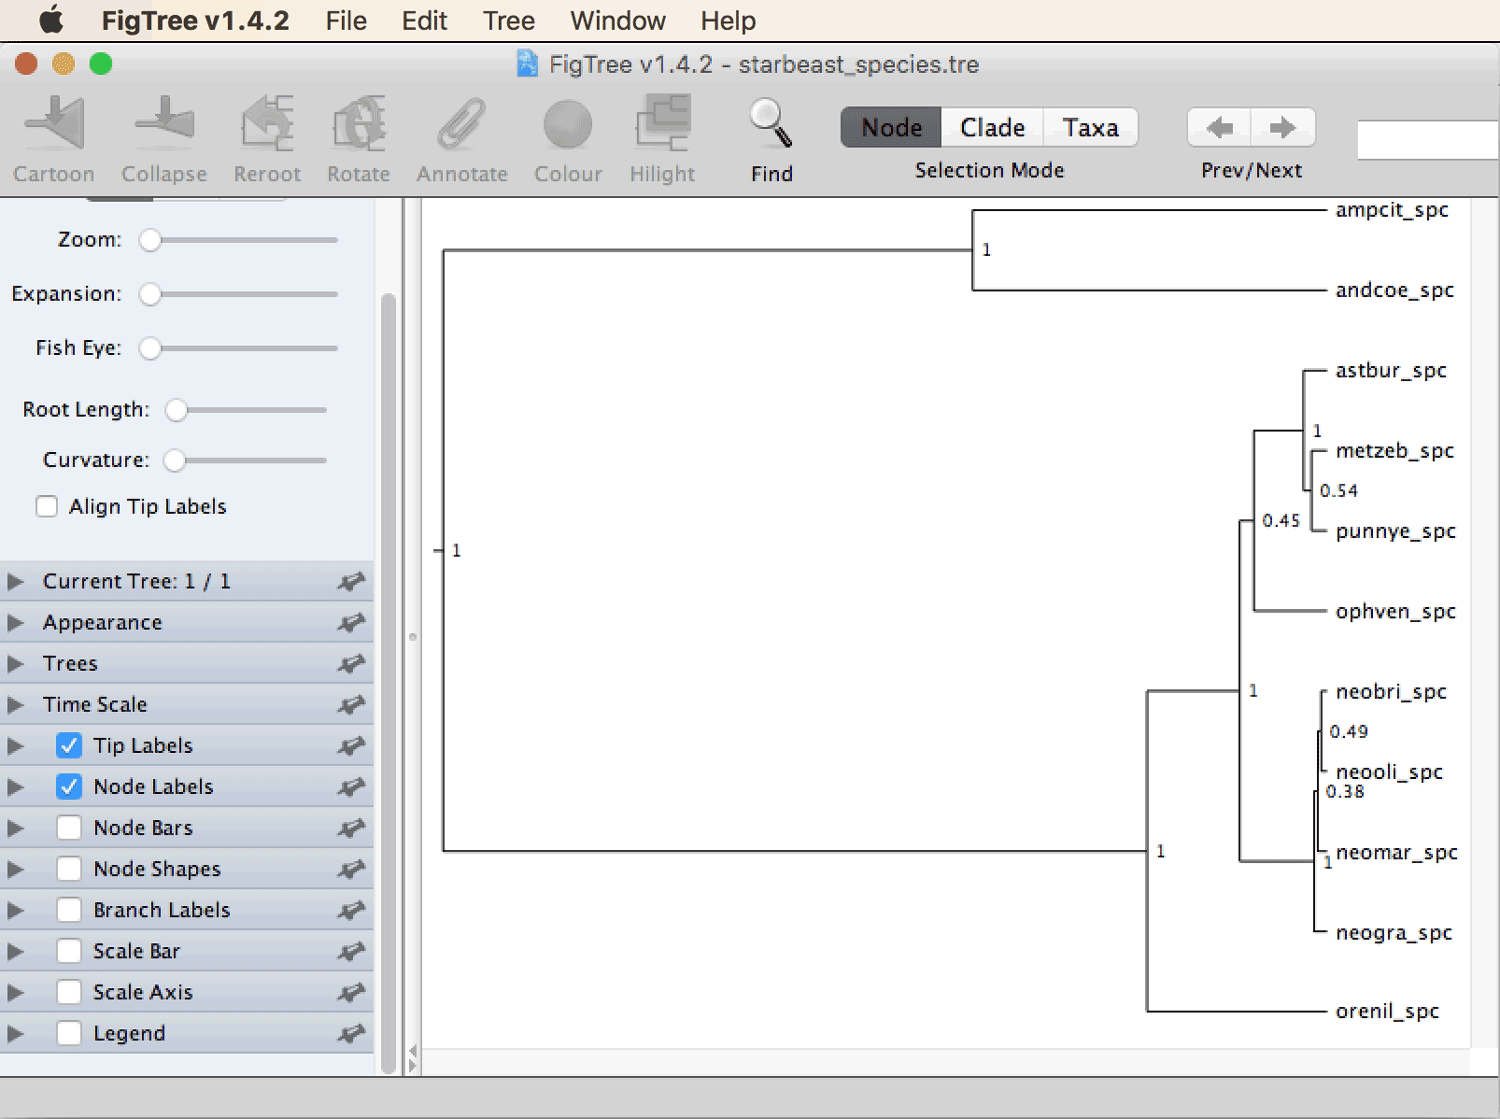
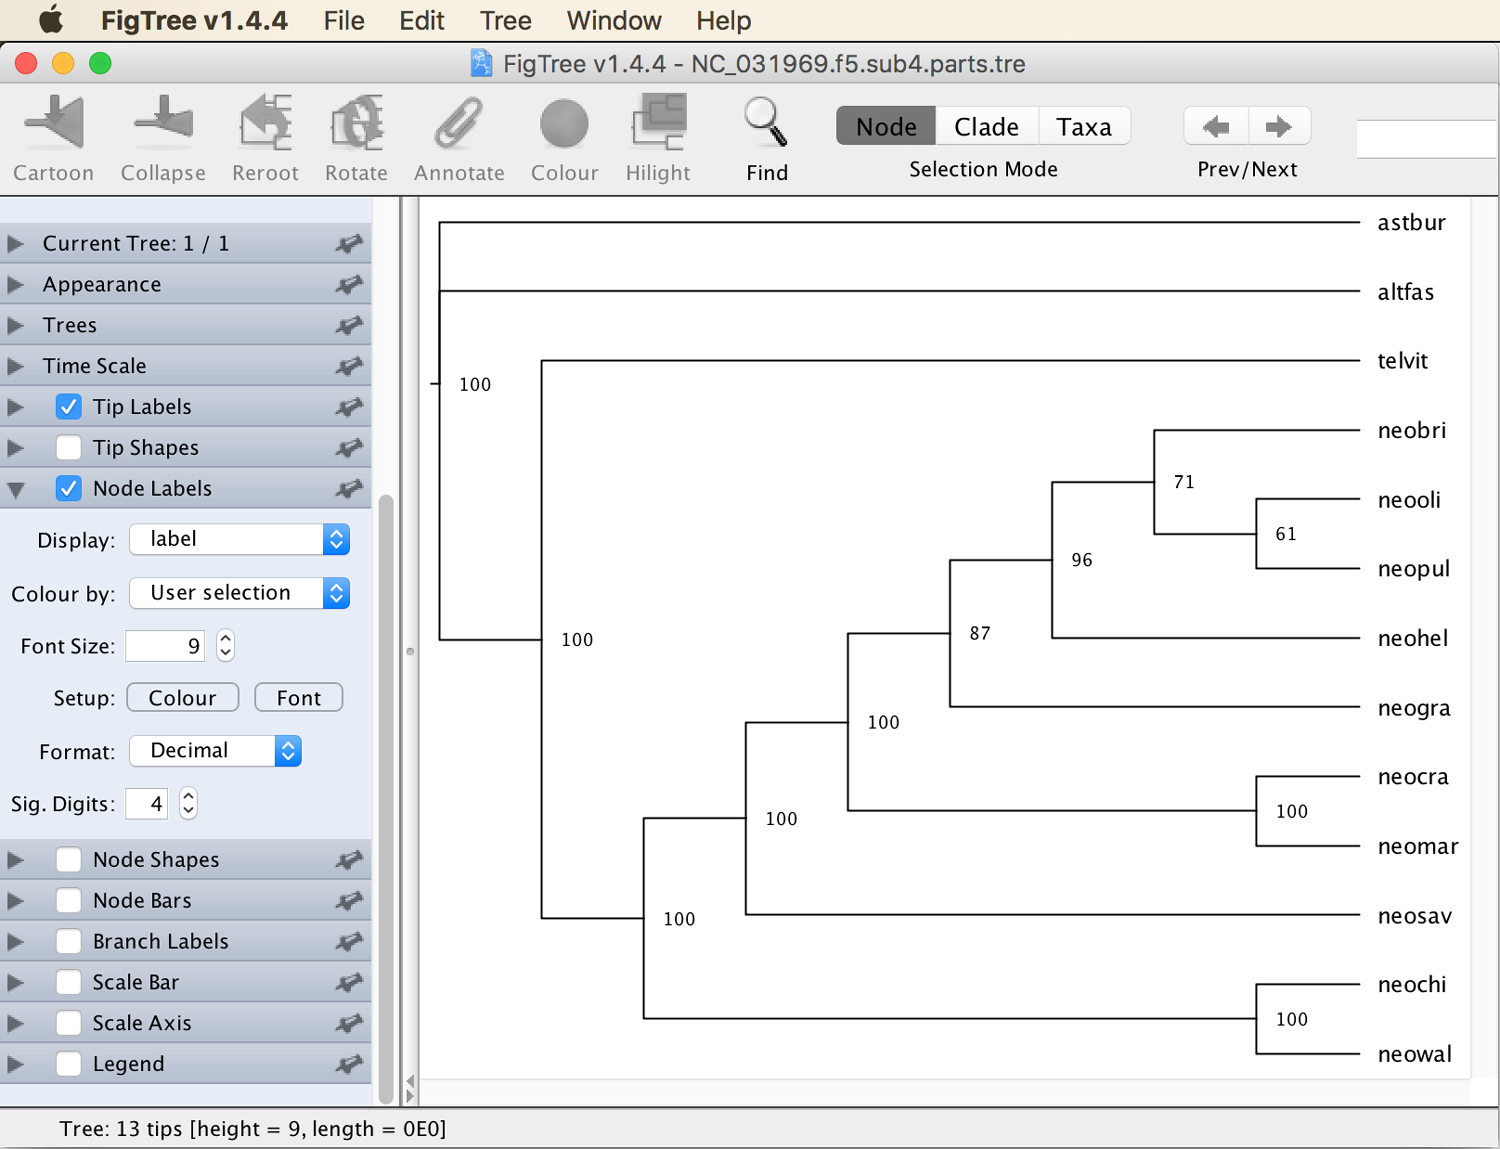
updated tutorial species_tree_inference_with_snp_data

diff --git a/species_tree_inference_with_snp_data/README.md b/species_tree_inference_with_snp_data/README.md
@@ -68,6 +68,8 @@ Note that one of these *Neolamprologus* species, *Neolamprologus cancellatus* ("
 
 * **bcftools:** [bcftools](http://www.htslib.org/doc/bcftools.html) ([Li 2011](https://academic.oup.com/bioinformatics/article/27/21/2987/217423)) is a fast and versatile tool for the manipulation and filtering of variant data in VCF format. Downloads and instructions for installation on Mac OS X and Linux are available at the [HTSlib download webpage](http://www.htslib.org/download/). Installation on Windows is apparently not possible. If you should fail to install bcftools, you could skip the optional [SNP filtering](#filtering) steps in the first part of the tutorial and still run the SVDQuartets analysis.
 
+* **FigTree:** The program [FigTree](http://tree.bio.ed.ac.uk/software/figtree/) by Andrew Rambaut is a very intuitive and useful tool for the visualization and (to a limited extent) manipulation of phylogenies encoded in [Newick](http://evolution.genetics.washington.edu/phylip/newicktree.html) format. Executables for Mac OS X, Linux, and Windows are provided on [https://github.com/rambaut/figtree/releases](https://github.com/rambaut/figtree/releases).
+
 
 <a name="filtering"></a>
 ## SNP filtering
@@ -137,7 +139,7 @@ SVDQuartets is a highly efficient tool to estimate the species-tree topology bas
 
 * Then, move the "IZA1" and "IZC5" into the field for the outgroup taxa with the "To Outgroup &rarr;" button, as shown in the next screenshot, and click "OK".<p align="center"><img src="img/paup3.png" alt="PAUP\*" width="600"></p> 
 
-* We are first going to run SVDQuartets with all samples as separate taxa to verify that these in fact appear monophyletic, before we are going to group all samples per species in a second analysis. To select the settings for this first SVDQuartets analysis, click on "SVDQuartets..." in PAUP\*'s "Analysis" menu, as shown in the next screenshot.<p align="center"><img src="img/paup4.png" alt="PAUP\*" width="600"></p> 
+* We are first going to run SVDQuartets with all samples as separate taxa to verify that these in fact appear monophyletic before we group all samples per species in a second analysis. To select the settings for this first SVDQuartets analysis, click on "SVDQuartets..." in PAUP\*'s "Analysis" menu, as shown in the next screenshot.<p align="center"><img src="img/paup4.png" alt="PAUP\*" width="600"></p> 
 
 * In the pop-up window for the SVDQuartets settings, choose "Evaluate all possible quartets" in the field at the top for "Quartet evaluation". With a larger dataset and limited computational resources, one might want to evaluate only a certain subset instead, but with the compraratively small dataset used in our analysis, evaluating all quartets will be very fast, so there is no reason to only analyze a subset. You can leave the default values for for all other options. Make sure that "Handling of ambiguities" is set to "Distribute". This specifies that the IUPAC ambiguity code for heterozygous sites will be correctly interpreted as both alleles being present in the sample, rather than uncertainty about any of the alleles. The pop-up window should then look as in the next screenshot. Click "Ok" if it does.<p align="center"><img src="img/paup5.png" alt="PAUP\*" width="600"></p>This analysis should finish within a few seconds.
 
@@ -174,13 +176,13 @@ SVDQuartets is a highly efficient tool to estimate the species-tree topology bas
 
 * Click "SVDQuartets..." again in the "Analysis" menu. In the settings for the SVDQuartets analysis, again use "Evaluate all possible quartets" and make sure that "Distribute" is selected for "Handling of ambiguities". Unlike in the first analysis, now assign the samples to species by setting a tick in the last checkbox next to "Assign tips to species using taxon partition". The "SPECIES" taxon partition should already be selected in the drop-down menu to the right of it, this is the taxon set definition that we had added in Nexus format to the end of the alignment file. To also perform a bootstrapping analysis this time to assess node support for the species tree, set a tick next in the checkbox next to "Perform bootstrapping". With 100 bootstrap replicates, the bootstrapping analysis might take around 20 minutes; if you would prefer not to wait that long you could set the number of bootstrap replicates to 50 instead. Another way to speed up the analysis is to use all CPUs available on your machine. To do so, simply click the "#CPUs" button in the bottom right of the settings window. This window should then look as shown in the next screenshot; click "OK" if it does.<p align="center"><img src="img/paup7.png" alt="PAUP\*" width="600"></p>
 
-* While the bootstrapping analysis is running, have a look at the screen output of PAUP\*, which should look as shown in the next screenshot.<p align="center"><img src="img/paup8.png" alt="PAUP\*" width="600"></p>You'll see that PAUP\* has already generate a species tree, and that it reports the number of quartets that are comparable or incomparable with this tree. If all quartets would be comparable with this tree, this would indicate complete absence of incomplete lineage sorting or processes that might violate the multi-species coalescent model such as introgression or paralog sequences in the alignment. Both processes can not be excluded, and introgression is in fact quite likely among the species included in this dataset.
+* While the bootstrapping analysis is running, have a look at the screen output of PAUP\*, which should look as shown in the next screenshot.<p align="center"><img src="img/paup8.png" alt="PAUP\*" width="600"></p>You'll see that PAUP\* has already generate a species tree, and that it reports the number of quartets that are comparable or incomparable with this tree. If all quartets would be comparable with this tree, this would indicate complete absence of incomplete lineage sorting and other processes that might violate the multi-species coalescent model, such as introgression or paralog sequences in the alignment. However, these processes can not be excluded, and introgression is in fact very likely among the species included in this dataset.
 
-* Once bootrapping has completed, PAUP\* should print the same species tree once again, this time with bootstrap node support values as shown in the screenshot below.<p align="center"><img src="img/paup9.png" alt="PAUP\*" width="600"></p> **Question 4:** Does the species tree inferred by SVDQuartets appear reliable? [(see answer)](#q4) **Question 5 (if you already did tutorial Bayesian Species-Tree Inference):** Is this species tree concordant with the tree generated based on the multi-species coalescent model in tutorial [Bayesian Species-Tree Inference](../bayesian_species_tree_inference/README.md)? [(see answer)](#q5)
+* Once bootstrapping has completed, PAUP\* should print the same species tree once again, this time with bootstrap node support values as shown in the screenshot below.<p align="center"><img src="img/paup9.png" alt="PAUP\*" width="600"></p> **Question 4:** Does the species tree inferred by SVDQuartets appear reliable? [(see answer)](#q4) **Question 5 (if you already did tutorial Bayesian Species-Tree Inference):** Is this species tree concordant with the tree generated based on the multi-species coalescent model in tutorial [Bayesian Species-Tree Inference](../bayesian_species_tree_inference/README.md)? [(see answer)](#q5)
 
 * Before closing PAUP\*, save the species tree with bootstrap support values to a new file named `NC_031969.f5.sub4.parts.tre` by clicking "Save Trees to File..." in PAUP\*'s "Trees" menu. Before you click "Save", first open a settings dialog by clicking the "More Options..." button. This should open another dialog window as shown in the next screenshot. In that window, select  "As internal node labels (only for other programs)" as the option for "Bootstrap /jackknife values". By saving the node-support values in this way, they will be readable e.g. for FigTree. Then, click "OK" and save the species tree.<p align="center"><img src="img/paup10.png" alt="PAUP\*" width="600"></p>
 
-The species tree inferred with SVDQuartets reveals that the divergence of the four *Neolamprologus* species included in tutorial [Bayesian Species-Tree Inference](../bayesian_species_tree_inference/README.md) did not represent the most basal divergences within the tribe Lamprologini and also not within the genus *Neolamprologus*. Instead, several lineages within *Neolamprologus* (*N. walteri*, *N. chitamwebwai*, and *N. savoryi*) as well as representatives of other genera within Lamprologini (*Altolamprologus fasciatus* and *Telmatochromis vittatus*) are all outgroups to the four species used in the other tutorial.
+* When you open the species tree inferred with SVDQuartets in FigTree, it should appear as shown in the next screenshot.<p align="center"><img src="img/figtree1.png" alt="PAUP\*" width="600"></p> The species tree reveals that the divergence of the four *Neolamprologus* species included in tutorial [Bayesian Species-Tree Inference](../bayesian_species_tree_inference/README.md) (*Neolamprologus brichardi*, *Neolamprologus gracilis*, *Neolamprologus marunguensis*, and *Neolamprologus olivaceous*) did not represent the most basal divergences within the tribe Lamprologini and also not within the genus *Neolamprologus*. Instead, several lineages within *Neolamprologus* (*N. walteri*, *N. chitamwebwai*, and *N. savoryi*) as well as representatives of other genera within Lamprologini (*Altolamprologus fasciatus* and *Telmatochromis vittatus*) are all outgroups to the four species used in the other tutorial.
 
 <br><hr>
 
@@ -215,4 +217,4 @@ The species tree inferred with SVDQuartets reveals that the divergence of the fo
 
 <a name="q5"></a>
 
-* **Question 5:** In tutorial [Bayesian Species-Tree Inference](../bayesian_species_tree_inference/README.md), a species tree was inferred with the StarBEAST2 method based on sequence data from twelve genes and eleven cichlid species. Of these species, four are also included in the species tree produced here with SVDQuartets, these are *Neolamprologus brichardi* ("neobri"), *Neolamprologus gracilis* ("neogra"), *Neolamprologus marunguensis* ("neomar"), and *Neolamprologus olivaceous* ("neooli"). The relationship of these four species is very strongly supported in the species tree resulting from the SVDQuartets analysis: *Neolamprologus brichardi* ("neobri") and *Neolamprologus olivaceous* ("neooli") are the most closely related of the four species, with a bootstrap support of 97. The support for the clustering of this pair of species with *Neolamprologus gracilis* ("neogra") receives a similarly strong bootstrap support of 95. The sister-group relationship of the two species *Neolamprologus brichardi* ("neobri_spc") and *Neolamprologus olivaceous* ("neooli_spc") was also recovered with the StarBEAST2 analysis (shown in the screenshot below), albeit only with a low Bayesian posterior probability of 0.49. But in contrast to the SVDQuartets species tree, *Neolamprologus marunguensis* ("neomar_spc") instead of *Neolamprologus gracilis* ("neogra_spc") appeared as the next-closest species in the species tree estimated by StarBEAST2, again with a very low Bayesian posterior probability of 0.38. Thus, while the two topologies are in conflict with each other, the topology inferred with StarBEAST2 did not receive strong support and may thus be incorrect. This difference in the degree of support between the two analyses is not surprising, given that we used a dataset of over 60,000 SNPs for SVDQuartets but only 12 sequence alignmets with StarBEAST2. <p align="center"><img src="img/figtree1.png" alt="PAUP\*" width="600"></p>
+* **Question 5:** In tutorial [Bayesian Species-Tree Inference](../bayesian_species_tree_inference/README.md), a species tree was inferred with the StarBEAST2 method based on sequence data from twelve genes and eleven cichlid species. Of these species, four are also included in the species tree produced here with SVDQuartets, these are *Neolamprologus brichardi* ("neobri"), *Neolamprologus gracilis* ("neogra"), *Neolamprologus marunguensis* ("neomar"), and *Neolamprologus olivaceous* ("neooli"). The relationship of these four species is very strongly supported in the species tree resulting from the SVDQuartets analysis: *Neolamprologus brichardi* ("neobri") and *Neolamprologus olivaceous* ("neooli") are the most closely related of the four species, with a bootstrap support of 97. The support for the clustering of this pair of species with *Neolamprologus gracilis* ("neogra") receives a similarly strong bootstrap support of 95. The sister-group relationship of the two species *Neolamprologus brichardi* ("neobri\_spc") and *Neolamprologus olivaceous* ("neooli\_spc") was also recovered with the StarBEAST2 analysis (shown in the screenshot below), albeit only with a low Bayesian posterior probability of 0.49. But in contrast to the SVDQuartets species tree, *Neolamprologus marunguensis* ("neomar_spc") instead of *Neolamprologus gracilis* ("neogra\_spc") appeared as the next-closest species in the species tree estimated by StarBEAST2, again with a very low Bayesian posterior probability of 0.38. Thus, while the two topologies are in conflict with each other, the topology inferred with StarBEAST2 did not receive strong support and may thus be incorrect. This difference in the degree of support between the two analyses is not surprising, given that we used a dataset of over 60,000 SNPs for SVDQuartets but only 12 sequence alignmets with StarBEAST2. <p align="center"><img src="img/figtree2.png" alt="PAUP\*" width="600"></p>

diff --git a/substitution_model_selection/README.md b/substitution_model_selection/README.md
@@ -28,7 +28,7 @@ The data used in this tutorial are the filtered versions of the alignments gener
 <a name="requirements"></a>
 ## Requirements
 
-* **PAUP\*:** First developed in the late 1980s, this software is one of the oldest programs for phylogenetic analysis, and even despite its age, its author Dave Swofford has never released a final version. Regardless, PAUP* has long been one of the most frequently used phylogenetic programs, and it is still very commonly used. Over its long lifetime, PAUP* has accumulated over [40,000 citations](https://scholar.google.ch/citations?user=H1jbCPkAAAAJ&hl=en&oi=ao) even though there is no paper for it (not even a proper manual). Until recently, PAUP* could only be purchased from Sinauer Associates for around 100 USD. Since 2015, Dave Swofford distributes updated versions of PAUP* 4.0 for free as trial versions on his new [PAUP\* website](http://phylosolutions.com/paup-test/). These trial versions expire after a few months, so if you would want to use PAUP* also in the future, you might have to redownload it then. This situation is likely only temporary as development is underway for PAUP* 5, which will be distributed at least in part commercially (fun fact: While the acronym PAUP* used to stand for "Phylogenetic Analysis using Parsimony", this has recently changed to the recursive acronym "Phylogenetic Analysis Using PAUP").<br>
+* **PAUP\*:** First developed in the late 1980s, this software is one of the oldest programs for phylogenetic analysis, and even despite its age, its author Dave Swofford has never released a final version. Regardless, PAUP* has long been one of the most frequently used phylogenetic programs, and it is still very commonly used. Over its long lifetime, PAUP* has accumulated over [50,000 citations](https://scholar.google.ch/citations?user=H1jbCPkAAAAJ&hl=en&oi=ao) even though there is no paper for it (not even a proper manual). Until recently, PAUP* could only be purchased from Sinauer Associates for around 100 USD. Since 2015, Dave Swofford distributes updated versions of PAUP* 4.0 for free as trial versions on his new [PAUP\* website](http://phylosolutions.com/paup-test/). These trial versions expire after a few months, so if you would want to use PAUP* also in the future, you might have to redownload it then. This situation is likely only temporary as development is underway for PAUP* 5, which will be distributed at least in part commercially (fun fact: While the acronym PAUP* used to stand for "Phylogenetic Analysis using Parsimony", this has recently changed to the recursive acronym "Phylogenetic Analysis Using PAUP").<br>
 While the descriptions in this tutorial assume that you have installed the GUI version of PAUP* for Mac OS X or Windows, it can also be followed with the command-line version of PAUP\*. If you use this command-line version, you might need to look up the equivalent commands; after starting PAUP\*, this can always be done with PAUP\*'s help screen that will be displayed if you simply type "?" and hit the Enter key. The screenshot below shows the help screen of the command-line versions of PAUP\*.
 <p align="center"><img src="img/paup1.png" alt="Command-line version of PAUP*" width="600"></p>
 
